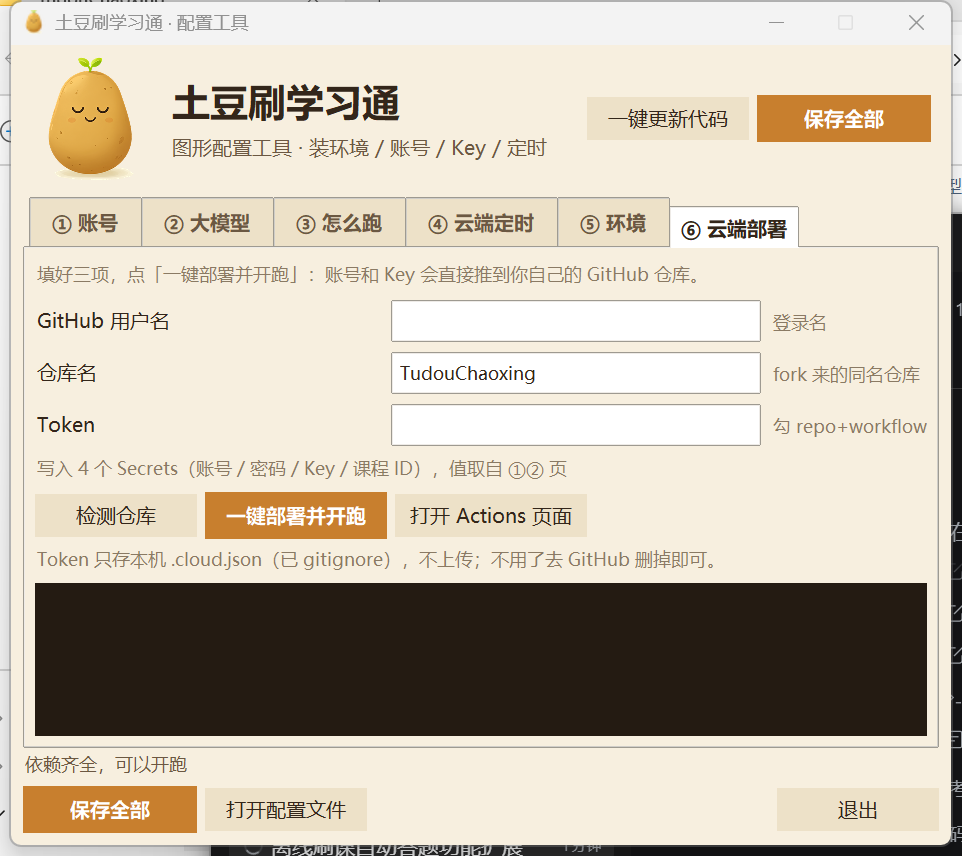
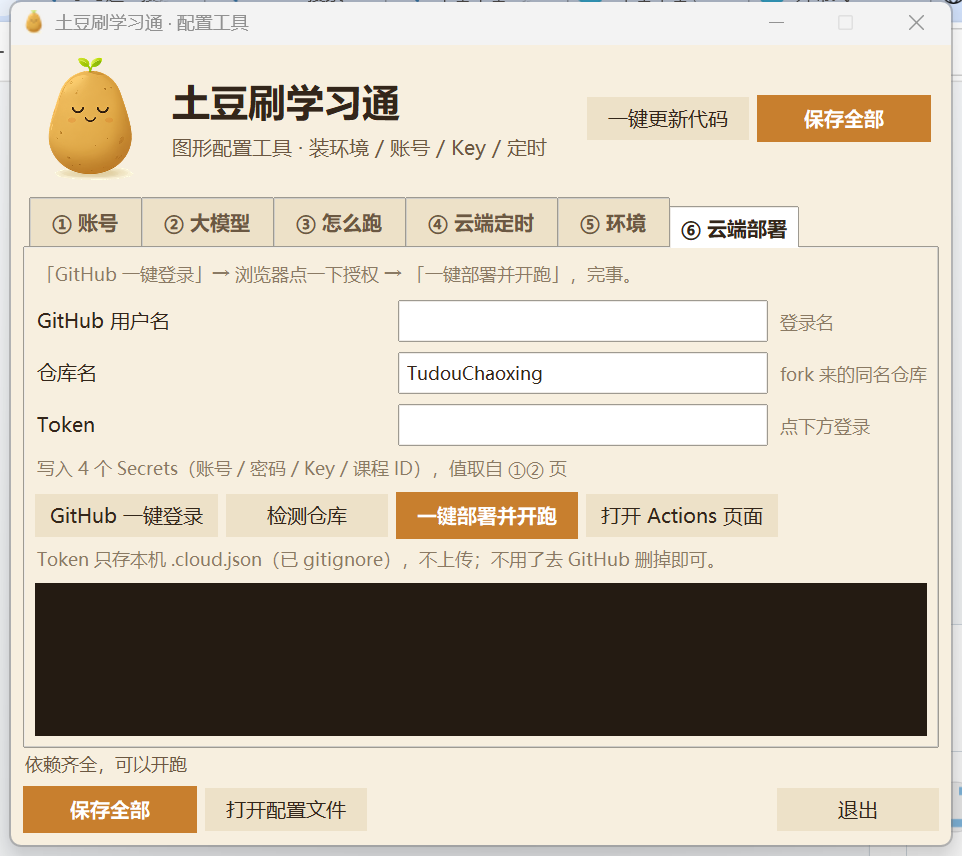
feat: 云端部署支持 GitHub 一键登录（OAuth Device Flow），新手不用再申请 Token
问题：Personal Access Token 的路径太深（Settings → Developer settings →
Tokens (classic) → Generate → 勾 scope → 复制），新手基本卡在这一步。

做法：⑥ 页新增「GitHub 一键登录」。点一下弹窗显示 6 位设备码，自动复制到剪贴板
并打开 github.com/login/device，用户粘进去点 Authorize，回来时 Token 和用户名都已填好。
走的是 GitHub 官方 Device Flow（和 VS Code / gh CLI 登录同一套机制）。
- cloud_deploy.device_start() / device_poll()：处理 authorization_pending、
  slow_down 自动加间隔、expired_token、access_denied、用户取消
- 没登录直接点「一键部署并开跑」时，会先引导登录，授权完自动接着部署
- 登录窗口用土豆图标，状态区实时显示"等待授权中…"

文档：README、本地教程 4.5.3、云端教程的 Token 获取段落全部改成一键登录，
原来的手填 PAT 作为备选保留。新增截图 docs/images/gui_login.png。

测试 208 条全绿（新增 8 条 device flow 用例，全部打桩，不联网）。

diff --git a/tests/test_cloud_deploy.py b/tests/test_cloud_deploy.py
@@ -207,6 +207,102 @@ def test_dispatch_failure_does_not_fail_deploy():
     assert any("手动 Run workflow" in x for x in steps)
 
 
+# ---------------- 一键登录（Device Flow） ----------------
+
+class PostSession:
+    """只实现 post 的假 session，按顺序吐出预设响应"""
+
+    def __init__(self, responses):
+        self.responses = list(responses)
+        self.posts = 0
+
+    def post(self, url, data=None, headers=None, timeout=None, **kw):
+        self.posts += 1
+        if not self.responses:
+            return FakeResp(200, {"error": "expired_token"})
+        return self.responses.pop(0)
+
+
+def test_device_start_parses_fields():
+    s = PostSession([FakeResp(200, {
+        "user_code": "WDJB-MJHT", "device_code": "dev123",
+        "verification_uri": "https://github.com/login/device",
+        "interval": 5, "expires_in": 900})])
+    d = cd.device_start(session=s)
+    assert d["user_code"] == "WDJB-MJHT"
+    assert d["device_code"] == "dev123"
+    assert d["interval"] == 5
+    assert d["verification_uri"].endswith("/login/device")
+
+
+def test_device_start_http_error():
+    s = PostSession([FakeResp(500, {"message": "boom"})])
+    with pytest.raises(cd.DeviceFlowError) as exc:
+        cd.device_start(session=s)
+    assert "500" in str(exc.value)
+
+
+def test_device_poll_returns_token_after_pending(monkeypatch):
+    monkeypatch.setattr("time.sleep", lambda *_: None)
+    s = PostSession([
+        FakeResp(200, {"error": "authorization_pending"}),
+        FakeResp(200, {"error": "authorization_pending"}),
+        FakeResp(200, {"access_token": "gho_real_token"}),
+    ])
+    token = cd.device_poll("dev123", interval=5, expires_in=60, session=s)
+    assert token == "gho_real_token"
+    assert s.posts == 3
+
+
+def test_device_poll_slow_down_then_ok(monkeypatch):
+    monkeypatch.setattr("time.sleep", lambda *_: None)
+    ticks = []
+    s = PostSession([
+        FakeResp(200, {"error": "slow_down"}),
+        FakeResp(200, {"access_token": "tok"}),
+    ])
+    token = cd.device_poll("dev", interval=5, expires_in=60, session=s, on_tick=ticks.append)
+    assert token == "tok"
+    assert ticks  # 有提示回调
+
+
+def test_device_poll_expired():
+    import time as _t
+    s = PostSession([FakeResp(200, {"error": "expired_token"})])
+    with pytest.raises(cd.DeviceFlowError) as exc:
+        cd.device_poll("dev", interval=5, expires_in=60, session=s)
+    assert "过期" in str(exc.value)
+
+
+def test_device_poll_denied():
+    s = PostSession([FakeResp(200, {"error": "access_denied"})])
+    with pytest.raises(cd.DeviceFlowError) as exc:
+        cd.device_poll("dev", interval=5, expires_in=60, session=s)
+    assert "取消" in str(exc.value)
+
+
+def test_device_poll_cancel():
+    s = PostSession([FakeResp(200, {"error": "authorization_pending"})] * 5)
+    with pytest.raises(cd.DeviceFlowError) as exc:
+        cd.device_poll("dev", interval=5, expires_in=60, session=s, should_stop=lambda: True)
+    assert "取消" in str(exc.value)
+
+
+def test_device_poll_does_not_sleep_in_tests(monkeypatch):
+    """确认 device_poll 走的是 time.sleep，测试里能被打桩（不然 CI 会真等）"""
+    calls = {"n": 0}
+
+    def fake_sleep(sec):
+        calls["n"] += 1
+        assert sec >= 5
+
+    monkeypatch.setattr("time.sleep", fake_sleep)
+    s = PostSession([FakeResp(200, {"error": "authorization_pending"}),
+                     FakeResp(200, {"access_token": "t"})])
+    assert cd.device_poll("d", interval=5, expires_in=60, session=s) == "t"
+    assert calls["n"] == 1
+
+
 def test_actions_url():
     client = cd.GitHubDeploy("me", "repo", "t")
     assert client.actions_url() == "https://github.com/me/repo/actions"

diff --git a/docs/本地安装教程.md b/docs/本地安装教程.md
@@ -808,7 +808,8 @@ pip     pip 24.3.1
 | ② 大模型 | 接口地址、API Key、模型名、投票次数 | 有「测试这把 Key 能不能用」按钮 |
 | ③ 怎么跑 | 只刷视频 / 只做测验 / 答完提交 / 长休息 | 勾选框，不用记 true false |
 | ④ 云端定时 | 每天几点开始、单次最多几分钟、开关 | 只对云端 GitHub Actions 生效 |
-| ⑤ 环境 | 检查 Python / 装依赖 / 下载 Python | **一键装环境，自动走国内镜像** |
+| ⑤ 环境 | 检查 Python / 装依赖 / 下载 Python / 建桌面图标 | **一键装环境，自动走国内镜像** |
+| ⑥ 云端部署 | GitHub 一键登录 → 一键推 Secrets + 定时 | 想让它在云端跑才需要这一页 |
 
 **第②页长这样**，填完点一下「测试这把 Key 能不能用」，它会真发一次请求（只花 1 个 token）：
 
@@ -921,19 +922,36 @@ python env_setup.py --download-python          # 只下载并安装 Python 3.12
 
 *图：⑥ 云端部署页。填三项，点一下，Secrets 和定时都上去了*
 
-**前置三件事，做完再来**：
+**前置两件事，做完再来**：
 
 1. 这个仓库已经 **fork** 到你自己的 GitHub 账号下（网页上点右上角 Fork，10 秒）；
-2. 去 `github.com/settings/tokens` → `Generate new token (classic)`，勾 **repo** 和 **workflow** 两个，生成后复制那串 `ghp_` 开头的；
-3. 先把 **① 账号** 页和 **② 大模型** 页填好（Token 页只是把它们搬过去，不会让你重复填）。
+2. 先把 **① 账号** 页和 **② 大模型** 页填好（⑥ 页只是把它们搬过去，不会让你重复填）。
 
-**然后回到 ⑥ 页**：
+**Token 不用申请了。** 点 ⑥ 页最左边的 **「GitHub 一键登录」**：
 
-| 字段 | 填什么 |
+![GitHub 一键登录](images/gui_login.png)
+
+*图：弹出来的就是一串 6 位码，已经自动复制好了*
+
+三步，20 秒：
+
+1. 窗口里的码会自动复制到剪贴板，浏览器也会自己打开 GitHub 授权页；
+2. 在网页里 `Ctrl+V` 粘贴那串码，点 **Authorize（授权）**；
+3. 回到配置工具，窗口已经自己关了，**用户名和 Token 都填好了**。
+
+> 背后用的是 GitHub 官方的 OAuth Device Flow —— 就是「浏览器里输个码、点一下同意」那套，
+> 跟你用 GitHub CLI、VS Code 登录 GitHub 是同一个机制。全程不用理解什么是 Personal Access Token。
+>
+> 如果你想自己申请 Token（或者要长期固定权限），也可以照旧：
+> `github.com/settings/tokens` → `Generate new token (classic)` → 勾 **repo** + **workflow** → 复制进 Token 框。
+
+**登录完之后**：
+
+| 字段 | 现在长什么样 |
 | --- | --- |
-| GitHub 用户名 | 你的**登录名**（`github.com/你的名字` 那一段），不是邮箱 |
-| 仓库名 | fork 出来的仓库名，通常就是 `TudouChaoxing` |
-| Token | 第 2 步复制的那串 |
+| GitHub 用户名 | 自动填好（你的登录名） |
+| 仓库名 | 默认 `TudouChaoxing`，fork 时改过名就改成你那个 |
+| Token | 自动填好，掩码显示 |
 
 先点 **检测仓库**，它会把认到的东西列出来，四行以内能看完：
 

diff --git a/docs/云端运行教程.md b/docs/云端运行教程.md
@@ -206,15 +206,19 @@ Actions → 土豆刷学习通 · 云端刷课→ Run workflow
 | 本地改完 main.yml 还要 git commit + git push | ⑥ 页顺手用 Contents API 提交上去 |
 | 再去 Actions 页手动 Run workflow | 部署完自动触发一次「只刷 1 章」的试水 |
 
-**你只需要准备一样东西**：一个 GitHub Token。
+**Token 也不用申请了**：点 ⑥ 页最左边的「GitHub 一键登录」，
 
-```text
-github.com/settings/tokens → Generate new token (classic)
-  勾：repo（仓库读写） + workflow（改 .github/workflows 必须勾这个）
-  有效期随便，用完可以删
-```
+![GitHub 一键登录](images/gui_login.png)
 
-拿到 `ghp_` 开头那串，填进 ⑥ 页，点「检测仓库」→「一键部署并开跑」。
+1. 弹出的 6 位码会自动复制，浏览器也会自己打开 GitHub 授权页；
+2. 网页里 `Ctrl+V` 粘进去，点 **Authorize**；
+3. 回来窗口已经关了，用户名和 Token 都填好。
+
+走的是 GitHub 官方 OAuth Device Flow——跟 VS Code / GitHub CLI 登录用的是同一套机制，
+不需要理解 Personal Access Token 是什么。整个过程 20 秒。
+
+> 想自己申请也行：`github.com/settings/tokens` → `Generate new token (classic)` →
+> 勾 **repo** + **workflow** → 复制 `ghp_` 开头那串填进 Token 框。
 
 **唯一替不了你的一步**：fork 来的仓库，GitHub 默认禁用定时任务。部署成功后去
 Actions 页面点一次绿色的 `I understand my workflows, go ahead and enable them`，

diff --git a/README.md b/README.md
@@ -171,8 +171,16 @@ python env_setup.py --download-python           # 只下载并安装 Python 3.12
 | 步骤 | 做什么 | 注意 |
 | --- | --- | --- |
 | 1 | Fork 这个仓库到自己账号下 | 仓库要**公开**，私有库 Actions 只有 2000 分钟/月 |
-| 2 | `github.com/settings/tokens` → Generate new token (classic) | 只需勾 **repo** 和 **workflow** 两个，有效期自己定 |
-| 3 | 打开配置工具，填 ① 账号、② 大模型，再到 ⑥ 页填用户名 / 仓库名 / Token，点「一键部署并开跑」 | 用户名是登录名，不是邮箱 |
+| 2 | 打开配置工具，填 ① 账号、② 大模型 | 这两页原来怎么填就怎么填 |
+| 3 | 到 ⑥ 页点 **「GitHub 一键登录」**，浏览器里点一下 Authorize，回来点 **「一键部署并开跑」** | **不用去后台申请 Token**，登录后用户名和 Token 自动填好 |
+
+**Token 不用手填了。** 以前要进 Settings → Developer settings → Personal access tokens 里点八下、
+还要勾对 scope，新手十个有八个卡在这。现在点「GitHub 一键登录」会弹一个 6 位验证码：
+
+![一键登录](docs/images/gui_login.png)
+
+它自动把码复制到剪贴板并打开授权页，粘贴进去、点 **Authorize**，窗口就自己关了，Token 也填好了。
+整个过程 20 秒，不需要理解什么是 Personal Access Token。
 
 点下去之后工具会自动做完这些：
 
